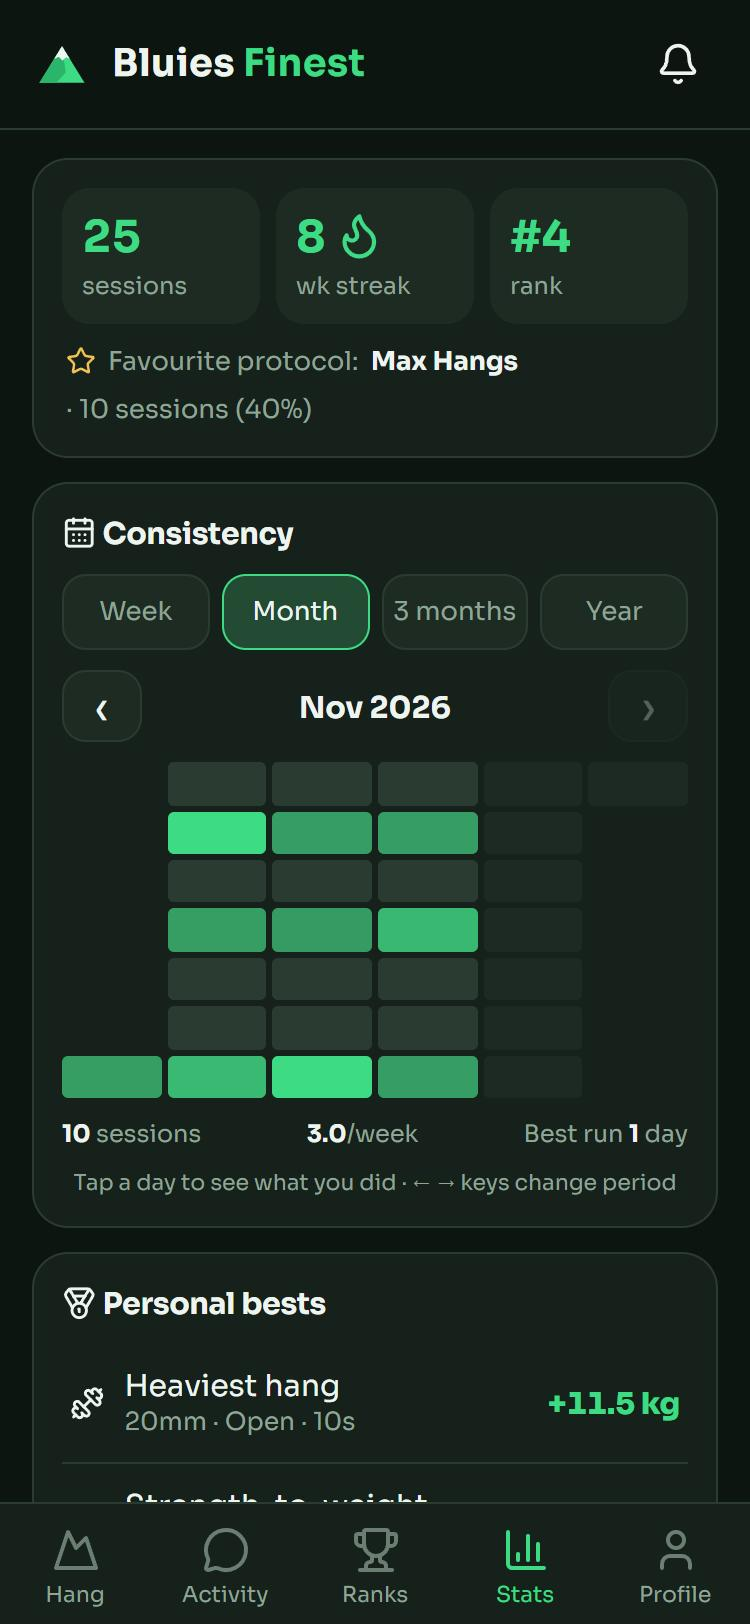
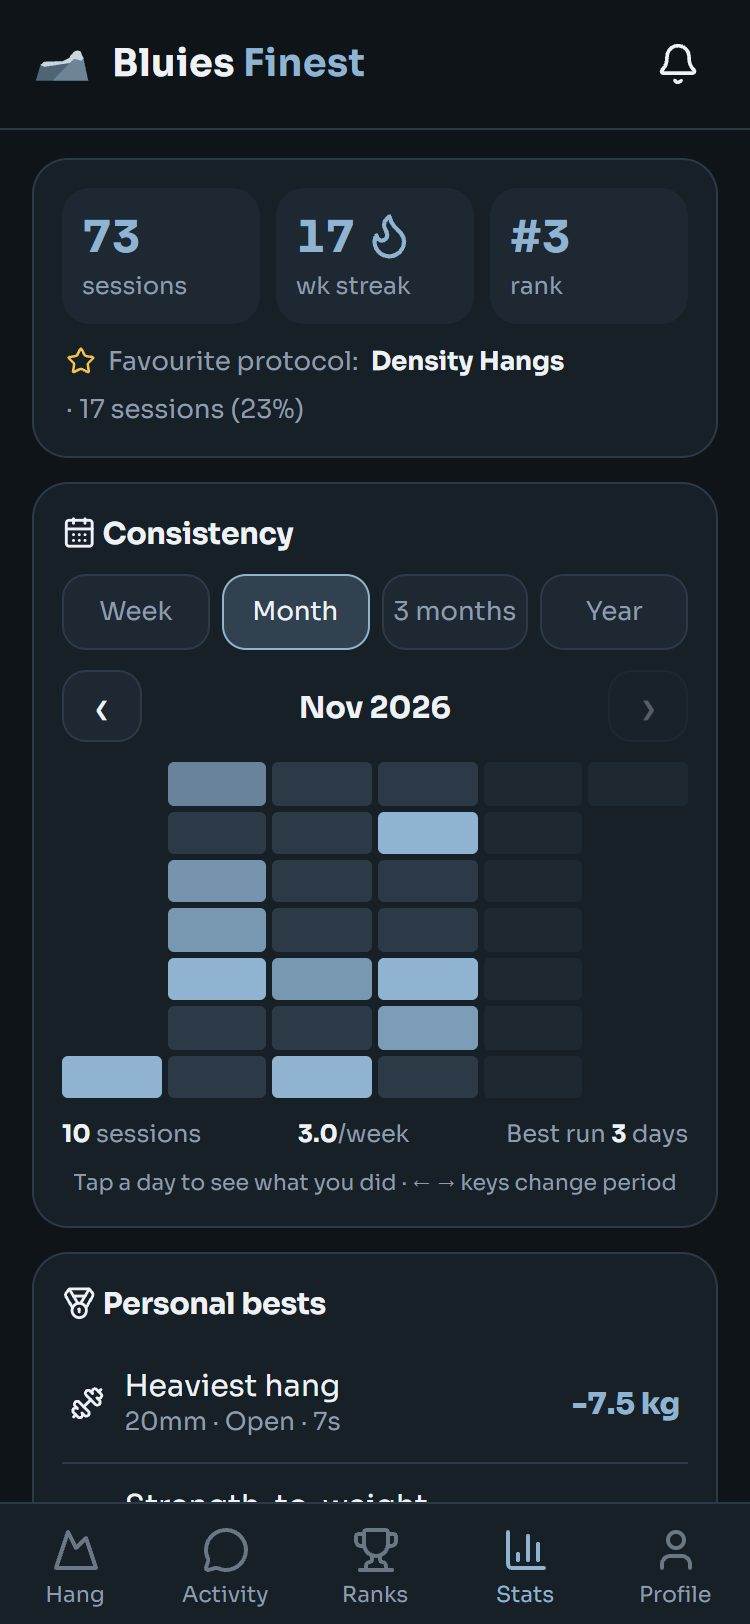
New badges, opt-in profile location, climber profile and tour updates
- Badges: "Time on the board" (minutes under tension) and "Training days"
- Profile: "Show my location on my profile" tick; shown under the climber's
  photo only when ticked (supabase/profile-location.sql adds the column)
- Climber profile: full-width, shorter Last 5 weeks; badges fill the width
  and explain themselves when tapped
- Tour: fresh screenshots in the blue-grey theme with the demo names

diff --git a/src/views/climber.ts b/src/views/climber.ts
@@ -1,5 +1,6 @@
 // Public climber profile: training stats, PBs, consistency and badges.
-// Deliberately shows NO personal details — no bodyweight, % bodyweight, age, height or location.
+// Shows no private details: no bodyweight, % bodyweight, age or height. Location only appears
+// when the climber ticked "Show my location on my profile".
 import { esc, avatar, sheet, toast } from '../lib/ui';
 import { ic, hydrateIcons } from '../lib/icons';
 import { state, seasonsWon } from '../lib/state';
@@ -57,12 +58,27 @@ export async function openClimber(uid: string) {
 
   const since = new Date(p.createdAt).toLocaleDateString('en-GB', { month: 'short', year: 'numeric' });
   el.innerHTML = `
-    <div class="center">${avatar(p, 'cav')}<h2 style="margin:10px 0 2px">${esc(p.name)}</h2><p class="sub" style="margin:0">Member since ${since}</p>${titles ? `<p class="titles">${ic('crown')} ${titles > 1 ? `${titles}× season champion` : 'Season champion'}</p>` : ''}</div>
+    <div class="center">${avatar(p, 'cav')}<h2 style="margin:10px 0 2px">${esc(p.name)}</h2>${p.location ? `<p class="cloc">${ic('pin')} ${esc(p.location)}</p>` : ''}<p class="sub" style="margin:0">Member since ${since}</p>${titles ? `<p class="titles">${ic('crown')} ${titles > 1 ? `${titles}× season champion` : 'Season champion'}</p>` : ''}</div>
     <div class="stats" style="margin:14px 0"><div class="stat"><b>${xs.length}</b>sessions</div><div class="stat"><b>${weekStreak(xs, now)} ${ic('streak')}</b>wk streak</div><div class="stat"><b>${rank >= 0 ? '#' + (rank + 1) : '–'}</b>overall</div></div>
     ${(() => { const f = favouriteProtocol(xs); return f ? `<p class="fav">${ic('star')} Favourite protocol: <b>${esc(f.name)}</b> · ${f.count} session${f.count > 1 ? 's' : ''} (${f.pct}%)</p>` : ''; })()}
     ${pbs ? `<h3>${ic('medal')} Personal bests</h3><div class="cpbs">${pbs}</div>` : ''}
     <h3 style="margin-top:14px">${ic('calendar')} Last 5 weeks</h3><div class="cgrid">${grid}</div>
-    ${badges.length ? `<h3 style="margin-top:14px">${ic('award')} Badges</h3><div class="cbadges">${badges.map(({ a, lv }) => `<span class="cbadge" style="--tc:${TIER_COLOURS[lv - 1]}" title="${a.name}: ${TIER_NAMES[lv - 1]}">${ic(a.icon)}<small>${TIER_NAMES[lv - 1]}</small></span>`).join('')}</div>` : ''}
+    ${badges.length ? `<h3 style="margin-top:14px">${ic('award')} Badges</h3><div class="cbadges">${badges.map(({ a, lv }) => `<button type="button" class="cbadge" data-badge="${TIERED.indexOf(a)}" style="--tc:${TIER_COLOURS[lv - 1]}" aria-label="${a.name}: ${TIER_NAMES[lv - 1]}">${ic(a.icon)}<small>${TIER_NAMES[lv - 1]}</small></button>`).join('')}</div><p class="sub" style="font-size:12px;margin:6px 0 0">Tap a badge to see what it’s for.</p>` : ''}
     <h3 style="margin-top:14px">${ic('calendar')} Recent sessions</h3><div class="daysess">${xs.slice(0, 5).map(s => sessRow(s, false)).join('') || '<p class="sub">No sessions yet.</p>'}</div>`;
   hydrateIcons(el);
+
+  // tapping a badge explains it, inside the profile so it doesn't close the sheet
+  el.addEventListener('click', e => {
+    const b = (e.target as HTMLElement).closest('[data-badge]') as HTMLElement | null; if (!b) return;
+    const a = TIERED[+b.dataset.badge!]!, v = a.value(ctx), lv = tierOf(v, a.thresholds, a.lower), nx = a.thresholds[lv];
+    el.querySelector('.cbinfo')?.remove();
+    el.querySelectorAll('.cbadge.on').forEach(x => x.classList.remove('on'));
+    if (b.dataset.open) { delete b.dataset.open; return; }
+    el.querySelectorAll<HTMLElement>('[data-open]').forEach(x => delete x.dataset.open);
+    b.dataset.open = '1'; b.classList.add('on');
+    const box = document.createElement('div'); box.className = 'cbinfo'; box.style.setProperty('--tc', TIER_COLOURS[lv - 1]!);
+    box.innerHTML = `<b>${ic(a.icon)} ${esc(a.name)} · <span>${TIER_NAMES[lv - 1]}</span></b><p>${esc(a.desc)}</p>
+      <small>${esc(p.name)} is at ${v}${nx != null ? `. Next tier, ${TIER_NAMES[lv]}, at ${a.lower ? '≤ ' : ''}${nx}.` : '. Top tier reached.'}</small>`;
+    b.parentElement!.after(box); hydrateIcons(box);
+  });
 }

diff --git a/src/lib/icons.ts b/src/lib/icons.ts
@@ -7,10 +7,10 @@ import {
   Volume2, Vibrate, Palette, Settings, LogOut, Plus, Play, Pause, SkipForward, X, Camera, BookOpen, Crown, Sparkles, Lock,
   CircleHelp, Zap, Sprout, Gem, TrendingUp, Clock, Moon, Sunrise, Award, BicepsFlexed, Layers, Hourglass, Brain, Baby, Wrench,
   MessagesSquare, Eye, RotateCcw, Check, Globe, Users, Square, Boxes, FlaskConical, BadgeCheck, Flag, TreePine, MoonStar,
-  Snail, Glasses, RefreshCw, CalendarPlus, Cloud, Pointer, Bell, ShieldCheck, Copy, Ticket, PartyPopper, Bug,
+  Snail, Glasses, RefreshCw, CalendarPlus, Cloud, Pointer, Bell, ShieldCheck, Copy, Ticket, PartyPopper, Bug, MapPin,
 } from 'lucide';
 
-const LUCIDE = { Timer, Wind, Repeat, Repeat1, Sofa, Ruler, Dumbbell, Anchor, Weight, Target, ArrowLeftRight, TrafficCone, Mountain, Trophy, ChartColumn, MessageCircle, User, Heart, Flame, Medal, CalendarDays, Download, Trash2, Pencil, Star, Volume2, Vibrate, Palette, Settings, LogOut, Plus, Play, Pause, SkipForward, X, Camera, BookOpen, Crown, Sparkles, Lock, CircleHelp, Zap, Sprout, Gem, TrendingUp, Clock, Moon, Sunrise, Award, BicepsFlexed, Layers, Hourglass, Brain, Baby, Wrench, MessagesSquare, Eye, RotateCcw, Check, Globe, Users, Square, Boxes, FlaskConical, BadgeCheck, Flag, TreePine, MoonStar, Snail, Glasses, RefreshCw, CalendarPlus, Cloud, Pointer, Bell, ShieldCheck, Copy, Ticket, PartyPopper, Bug };
+const LUCIDE = { Timer, Wind, Repeat, Repeat1, Sofa, Ruler, Dumbbell, Anchor, Weight, Target, ArrowLeftRight, TrafficCone, Mountain, Trophy, ChartColumn, MessageCircle, User, Heart, Flame, Medal, CalendarDays, Download, Trash2, Pencil, Star, Volume2, Vibrate, Palette, Settings, LogOut, Plus, Play, Pause, SkipForward, X, Camera, BookOpen, Crown, Sparkles, Lock, CircleHelp, Zap, Sprout, Gem, TrendingUp, Clock, Moon, Sunrise, Award, BicepsFlexed, Layers, Hourglass, Brain, Baby, Wrench, MessagesSquare, Eye, RotateCcw, Check, Globe, Users, Square, Boxes, FlaskConical, BadgeCheck, Flag, TreePine, MoonStar, Snail, Glasses, RefreshCw, CalendarPlus, Cloud, Pointer, Bell, ShieldCheck, Copy, Ticket, PartyPopper, Bug, MapPin };
 
 // ---- custom 24×24 line icons (same stroke style as Lucide) ----
 // Grips are drawn side-on: a finger on an edge (the block top-right).
@@ -52,7 +52,7 @@ const MAP: Record<string, [string, string]> = {
   camera: ['📷', 'camera'], crown: ['👑', 'crown'], sparkles: ['✨', 'sparkles'], lock: ['🔒', 'lock'], help: ['❓', 'circle-help'],
   bolt: ['⚡', 'zap'], sprout: ['🌱', 'sprout'], gem: ['💎', 'gem'], clock: ['⏱', 'clock'], moon: ['🌙', 'moon'], sunrise: ['🌅', 'sunrise'],
   award: ['🏆', 'award'], muscle: ['💪', 'biceps-flexed'], hourglass: ['⏳', 'hourglass'], baby: ['👶', 'baby'], wrench: ['🛠', 'wrench'],
-  eye: ['👀', 'eye'], bug: ['🐞', 'bug'], replay: ['↺', 'rotate-ccw'], check: ['✓', 'check'], globe: ['🌍', 'globe'], users: ['🙋', 'users'], mountain: ['🏔', 'mountain'],
+  eye: ['👀', 'eye'], bug: ['🐞', 'bug'], pin: ['📍', 'map-pin'], '⏳': ['⏳', 'hourglass'], '📅': ['📅', 'calendar-days'], replay: ['↺', 'rotate-ccw'], check: ['✓', 'check'], globe: ['🌍', 'globe'], users: ['🙋', 'users'], mountain: ['🏔', 'mountain'],
   user: ['👤', 'user'], bell: ['🔔', 'bell'], admin: ['🛡', 'shield-check'], copy: ['📋', 'copy'], ticket: ['🎟', 'ticket'], party: ['🎉', 'party-popper'],
   // moods (stored values are the emoji)
   '😭': ['😭', 'fCry'], '🤕': ['🤕', 'fHurt'], '😫': ['😫', 'fTired'], '😴': ['😴', 'fSleepy'], '😐': ['😐', 'fMeh'], '🙂': ['🙂', 'fHappy'], '💪': ['💪', 'biceps-flexed'], '🔥': ['🔥', 'flame'],

diff --git a/src/views/profile.ts b/src/views/profile.ts
@@ -27,8 +27,9 @@ export function renderProfile(root: HTMLElement) {
         <div><label class="f">Age <small>(optional)</small></label><input class="tx" id="pAge" type="number" inputmode="numeric" min="10" max="100" value="${S.about?.age ?? ''}" placeholder="Not set" aria-label="Age"></div>
         <div><label class="f">Height <small>(cm, optional)</small></label><input class="tx" id="pHeight" type="number" inputmode="numeric" min="100" max="230" value="${S.about?.heightCm ?? ''}" placeholder="Not set" aria-label="Height in centimetres"></div>
       </div>
-      <div><label class="f">Location <small>(optional)</small></label><input class="tx" id="pLoc" maxlength="60" value="${esc(S.about?.location ?? '')}" placeholder="e.g. Katoomba" aria-label="Location"></div>
-      <p class="sub" style="margin:0">${ic('lock')} Age, height and location are private. Your bodyweight is never shown. Others only see a rounded % on your sessions.</p>
+      <div><label class="f">Location <small>(optional)</small></label><input class="tx" id="pLoc" maxlength="60" value="${esc(S.about?.location ?? '')}" placeholder="e.g. Katoomba" aria-label="Location">
+        <label class="showloc"><input type="checkbox" id="pLocShow" ${S.about?.showLocation ? 'checked' : ''}> Show my location on my profile</label></div>
+      <p class="sub" style="margin:0">${ic('lock')} Age and height are private, and so is your location unless you tick the box above. Your bodyweight is never shown. Others only see a rounded % on your sessions.</p>
     </div>
     <button class="big" id="saveName">Save</button>
     ${state.store.kind === 'local' ? '<p class="sub" style="margin-top:10px">Demo mode: data is stored in this browser only.</p>' : ''}
@@ -144,13 +145,17 @@ async function saveAbout() {
   if (age === undefined) return toast('Age should be between 10 and 100');
   if (heightCm === undefined) return toast('Height should be between 100 and 230 cm');
   const location = ($('#pLoc') as HTMLInputElement).value.trim().slice(0, 60);
+  const showLocation = ($('#pLocShow') as HTMLInputElement).checked;
   const btn = $('#saveName') as HTMLButtonElement; btn.disabled = true;
   try {
     if (name !== state.me!.name) {
       await state.store.updateProfile({ name });
       state.me!.name = name; state.profiles.get(state.me!.id)!.name = name; refreshHeader();
     }
-    state.settings.about = { age, heightCm, location };
+    // the public copy of the location only exists while "show" is ticked
+    const shown = showLocation && location ? location : null, mine = state.profiles.get(state.me!.id);
+    if ((mine?.location ?? null) !== shown) { await state.store.updateProfile({ location: shown }); if (mine) mine.location = shown; }
+    state.settings.about = { age, heightCm, location, showLocation };
     state.settings.savedAt = Date.now();
     state.priv.bodyweightKg = bw;
     // bodyweight + private details go up together in one private write

diff --git a/src/lib/supabase-store.ts b/src/lib/supabase-store.ts
@@ -70,6 +70,7 @@ function rowToProfile(r: any): Profile {
     id: r.id,
     name: r.name,
     avatarUrl: r.avatar_url ?? null,
+    location: r.location ?? null,
     isAdmin: !!r.is_admin,
     createdAt: r.created_at,
   };
@@ -292,16 +293,14 @@ export class SupabaseStore implements Store {
   // ---------------------------------------------------------------- profiles
 
   async listProfiles(): Promise<Profile[]> {
-    const rows = check(
-      await this.client
-        .from('profiles')
-        .select('id,name,avatar_url,is_admin,created_at')
-        .order('created_at', { ascending: true }),
-    );
+    // location needs supabase/profile-location.sql; fall back without it so the app still loads
+    let res = await this.client.from('profiles').select('id,name,avatar_url,location,is_admin,created_at').order('created_at', { ascending: true });
+    if (res.error && /location/.test(res.error.message)) res = await this.client.from('profiles').select('id,name,avatar_url,is_admin,created_at').order('created_at', { ascending: true }) as any;
+    const rows = check(res);
     return (rows ?? []).map(rowToProfile);
   }
 
-  async updateProfile(p: { name?: string }): Promise<void> {
+  async updateProfile(p: { name?: string; location?: string | null }): Promise<void> {
     const uid = this.requireUid();
     const patch: Record<string, unknown> = {};
     if (p.name !== undefined) {
@@ -310,6 +309,7 @@ export class SupabaseStore implements Store {
       if (name.length > 40) throw new Error('Name must be 40 characters or fewer.');
       patch.name = name;
     }
+    if (p.location !== undefined) patch.location = p.location?.trim().slice(0, 60) || null;
     if (!Object.keys(patch).length) return;
     check(await this.client.from('profiles').update(patch).eq('id', uid));
   }

diff --git a/src/app.css b/src/app.css
@@ -231,3 +231,12 @@ textarea.tx{width:100%;background:var(--card2);color:var(--ink);border:1px solid
 .iss.done{opacity:.6}.iss-hd{display:flex;align-items:center;gap:8px;font-size:13px}.iss-hd small{margin-left:auto;color:var(--mute)}
 .iss p{margin:6px 0;white-space:pre-wrap;overflow-wrap:anywhere}.iss .ctx{font-size:11px;color:var(--mute);overflow-wrap:anywhere}
 .iss-act{display:flex;gap:6px;margin-top:8px}.iss-act .pill{padding:6px 12px;font-size:12px}
+.showloc{display:flex;align-items:center;gap:8px;font-size:13px;color:var(--mute);margin:-2px 0 8px;cursor:pointer}.showloc input{width:18px;height:18px;accent-color:var(--acc)}
+/* climber profile: location, wide consistency strip, badge info */
+.cloc{margin:0 0 2px;color:var(--ink);font-size:14px;display:flex;align-items:center;justify-content:center;gap:4px}.cloc .lic{color:var(--acc);width:15px;height:15px}
+.climber .cgrid{max-width:none;gap:4px}.climber .cgrid i{aspect-ratio:auto;height:22px;border-radius:4px}
+button.cbadge{font:inherit;font-size:20px;color:inherit;cursor:pointer}button.cbadge.on{background:color-mix(in srgb,var(--tc) 18%,var(--card2))}
+.cbinfo{margin-top:8px;border:1px solid var(--tc);border-radius:12px;padding:10px 12px;background:var(--card2);text-align:left}
+.cbinfo b{display:flex;align-items:center;gap:6px;font-size:14px}.cbinfo b span{color:var(--tc)}.cbinfo .lic{color:var(--tc);width:18px;height:18px}
+.cbinfo p{margin:4px 0;font-size:13px;color:var(--mute)}.cbinfo small{font-size:12px;color:var(--mute)}
+.climber .cbadges{display:grid;grid-template-columns:repeat(auto-fill,minmax(72px,1fr));gap:8px}.climber .cbadge{min-width:0}

diff --git a/src/lib/achievements.ts b/src/lib/achievements.ts
@@ -31,6 +31,8 @@ export const TIERED: Tiered[] = [
   { icon: '✋', name: 'Open-hand sessions', desc: 'Sessions using open hand.', thresholds: [1, 5, 10, 25, 50, 75, 100, 150, 200, 300], value: c => c.sessions.filter(s => s.grip === 'Open').length },
   { icon: '☝', name: 'One-arm hangs', desc: 'Single-arm hangs completed.', thresholds: [1, 5, 10, 25, 50, 100, 150, 250, 400, 600], value: c => c.sessions.reduce((a, s) => a + s.hangs.filter(h => h.hand !== 'both' && h.full).length, 0) },
   { icon: '🪨', name: 'No-hang lift', desc: 'Heaviest no-hang lift (kg).', thresholds: [10, 20, 30, 40, 50, 60, 70, 80, 90, 100], value: c => max(c.sessions.filter(s => s.mode === 'lift').map(s => s.liftKg)) },
+  { icon: '⏳', name: 'Time on the board', desc: 'Total minutes under tension, all time.', thresholds: [5, 15, 30, 60, 120, 240, 500, 1000, 2000, 5000], value: c => Math.floor(c.sessions.reduce((a, s) => a + (s.tutS || 0), 0) / 60) },
+  { icon: '📅', name: 'Training days', desc: 'Different days you trained.', thresholds: [1, 7, 14, 30, 60, 100, 150, 200, 300, 365], value: c => new Set(c.sessions.map(s => dayKey(new Date(s.createdAt)))).size },
   { icon: '👑', name: 'Seasons won', desc: 'Finish a season (Summer, Autumn, Winter or Spring) with the most points.', thresholds: [1, 2, 3, 4, 6, 8, 10, 12, 16, 20], value: c => c.seasonsWon ?? 0 },
   { icon: '💎', name: 'Points', desc: 'All-time points earned.', thresholds: [50, 250, 500, 1000, 2500, 5000, 10000, 25000, 50000, 100000], value: c => c.pointsTotal },
 ];

diff --git a/src/lib/local-store.ts b/src/lib/local-store.ts
@@ -107,7 +107,7 @@ export class LocalStore implements Store {
   }
 
   async listProfiles() { return structuredClone(this.db.profiles); }
-  async updateProfile(p: { name?: string }) { const pr = this.db.profiles.find(x => x.id === this.need())!; if (p.name) pr.name = p.name; this.save(); }
+  async updateProfile(p: { name?: string; location?: string | null }) { const pr = this.db.profiles.find(x => x.id === this.need())!; if (p.name) pr.name = p.name; if (p.location !== undefined) pr.location = p.location?.trim().slice(0, 60) || null; this.save(); }
   async uploadAvatar(file: Blob) {
     const url = await new Promise<string>((res, rej) => { const r = new FileReader(); r.onload = () => res(r.result as string); r.onerror = rej; r.readAsDataURL(file); });
     this.db.profiles.find(x => x.id === this.need())!.avatarUrl = url; this.save(); return url;

diff --git a/src/lib/state.ts b/src/lib/state.ts
@@ -22,7 +22,7 @@ export interface Settings {
   owner?: string;                                   // user id the local copy belongs to
   iconsV?: number;                                  // settings migration marker
   /** Optional personal details. Private: stored with the user's private settings, never shown to others. */
-  about?: { age?: number | null; heightCm?: number | null; location?: string };
+  about?: { age?: number | null; heightCm?: number | null; location?: string; showLocation?: boolean };
   /** Load changes suggested from the last session's effort rating, per protocol (shown with an Undo). */
   suggest?: Record<string, { text: string; prev: { add: number; rem: number; lift: number } }>;
   /** Protocol to switch back to after a warm-up. */

diff --git a/src/lib/types.ts b/src/lib/types.ts
@@ -8,6 +8,8 @@ export interface Profile {
   id: string;
   name: string;
   avatarUrl: string | null;
+  /** Only set when the member chose to show it on their profile. */
+  location?: string | null;
   isAdmin: boolean;
   createdAt: string;
 }
@@ -82,7 +84,7 @@ export interface Store {
   deleteAccount(): Promise<void>;
   // profiles
   listProfiles(): Promise<Profile[]>;
-  updateProfile(p: { name?: string }): Promise<void>;
+  updateProfile(p: { name?: string; location?: string | null }): Promise<void>;
   uploadAvatar(file: Blob): Promise<string>; // returns public URL
   getPrivate(): Promise<PrivateData>;
   savePrivate(d: Partial<PrivateData>): Promise<void>;

diff --git a/tests/achievements.test.ts b/tests/achievements.test.ts
@@ -60,6 +60,7 @@ describe('diffUnlocks', () => {
       { icon: '🧗', text: 'Sessions → Iron' },
       { icon: '📏', text: 'Smallest edge → Bronze' },
       { icon: '🤏', text: 'Crimp sessions → Iron' },
+      { icon: '📅', text: 'Training days → Iron' },
       { icon: '👶', text: 'First Hang' },
       { icon: '💯', text: 'Perfect Session' },
     ]);

diff --git a/docs/SUPABASE.md b/docs/SUPABASE.md
@@ -2,7 +2,7 @@
 
 Without these steps the app runs in **demo mode**, where data stays in one browser. Follow them once to turn on real accounts, the shared feed, hearts and comments. It takes about 15 minutes, and everything here is on Supabase's free plan.
 
-> **Already set up before late November 2026?** Run any of these update scripts you haven't yet, in the SQL Editor (all safe to run again): [`hardening.sql`](../supabase/hardening.sql), [`admin.sql`](../supabase/admin.sql), [`seasons.sql`](../supabase/seasons.sql) (seasons and group challenges), [`issues.sql`](../supabase/issues.sql) (Report an issue). Then do steps 7 and 8 below if you haven't already.
+> **Already set up before late November 2026?** Run any of these update scripts you haven't yet, in the SQL Editor (all safe to run again): [`hardening.sql`](../supabase/hardening.sql), [`admin.sql`](../supabase/admin.sql), [`seasons.sql`](../supabase/seasons.sql) (seasons and group challenges), [`issues.sql`](../supabase/issues.sql) (Report an issue), [`profile-location.sql`](../supabase/profile-location.sql) (optional location on profiles). Then do steps 7 and 8 below if you haven't already.
 >
 > **Phone notifications** need a few extra one-time steps: see [PUSH.md](PUSH.md).
 
